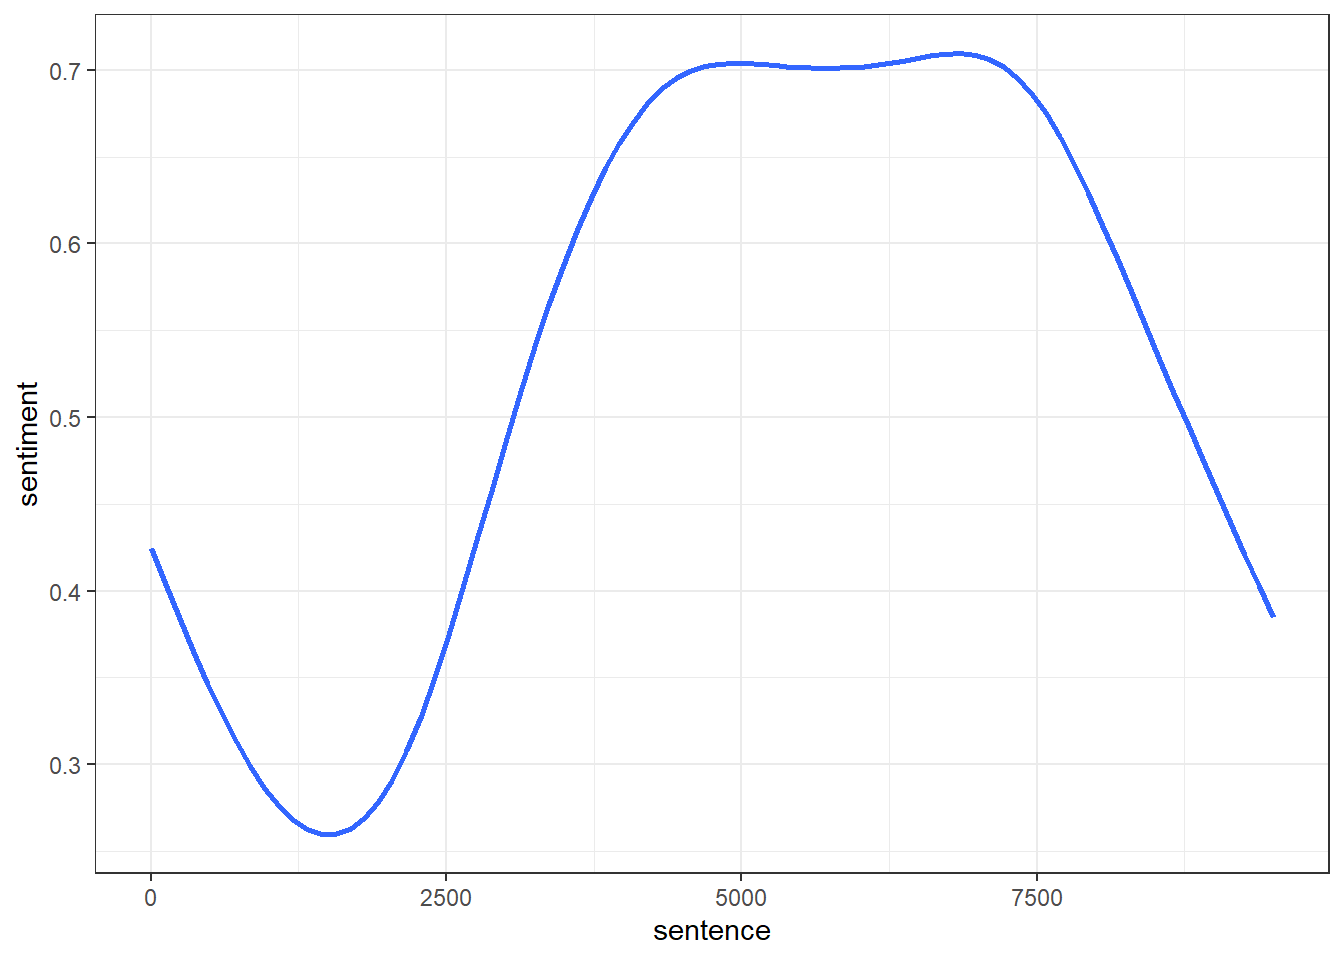
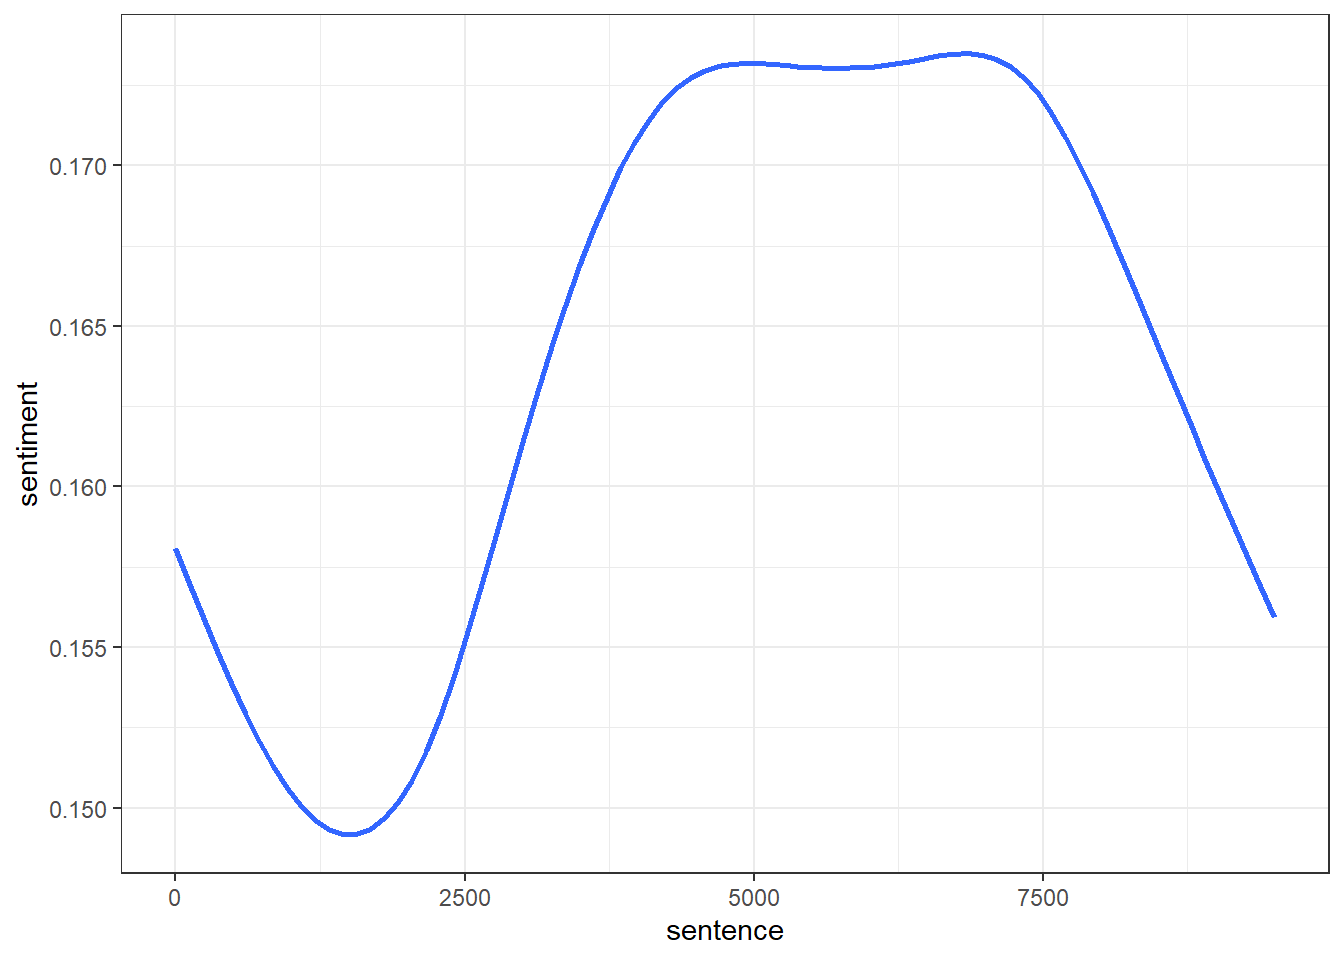
fixed fig width

diff --git a/content/post/2019-07-03-analisis-de-sentimientos-en-espanol-con-r.html b/content/post/2019-07-03-analisis-de-sentimientos-en-espanol-con-r.html
@@ -23,6 +23,7 @@ tags:
 <li>Oedipus (baja, luego sube, luego baja)</li>
 </ul>
 <p>La posibilidad de realizar este análisis en forma masiva dispara muchísimas preguntas sobre la estructura de las historias a lo largo del tiempo, países, culturas, etc.</p>
+<p>En <a href="http://hedonometer.org/books/v3/1777/">esta</a> aplicación desarrollada por el mismo Andy Reagan se pueden explorar los arcos emocionales de muchos libros.</p>
 <p>En fin, yendo a la práctica, para este tutorial voy a utilizar el <a href="https://es.wikipedia.org/wiki/Don_Quijote_de_la_Mancha">Don Quijote</a>, cuyos derechos de autor son de dominio público y es fácilmente accesible a través del paquete <a href="https://cran.r-project.org/web/packages/gutenbergr/vignettes/intro.html">gutenbergr</a>, una librería que permite descargar los libros del Proyecto Gutenberg. Para manipular los datos voy a utilizar la librería <a href="https://www.tidyverse.org/">tidyverse</a>.</p>
 <p>En primer lugar, descargo el libro y hago algo de limpieza del texto.</p>
 <pre class="r"><code>library(gutenbergr)
@@ -59,10 +60,11 @@ don_quijote_sentences &lt;- get_sentences(don_quijote)</code></pre>
 <p><img src="/post/2019-07-03-analisis-de-sentimientos-en-espanol-con-r_files/figure-html/unnamed-chunk-4-1.png" width="672" /></p>
 <p>Evidentemente, plotear el sentimiento de cada oración no nos deja ver con claridad cómo evoluciona el sentimiento a lo largo del libro. Para eso tenemos que aplicar algún tipo de técnica que nos permita suavizar los valores para que expresen una tendencia.</p>
 <p>El paquete <code>syuzhet</code> trae la función <code>simple_plot</code> que aplica simultáneamente tres métodos para suavizar: media móvil, loess y discrete cosine transformation.</p>
-<pre class="r"><code>simple_plot(don_quijote_sentiment)</code></pre>
+<pre class="r"><code>simple_plot(don_quijote_sentiment, )</code></pre>
 <p><img src="/post/2019-07-03-analisis-de-sentimientos-en-espanol-con-r_files/figure-html/unnamed-chunk-5-1.png" width="672" /></p>
 <p>Existen otros métodos para suavizar. Por ejemplo, el que trae por default la librería <code>ggplot</code> es una regresión GAM (Generalized Additive Model). Antes de plotear tengo que convertir el vector a data.frame, que es el tipo de dato que toma <code>ggplot</code>:</p>
-<pre class="r"><code>tibble(sentence = 1:length(don_quijote_sentiment), sentiment = don_quijote_sentiment) %&gt;% 
+<pre class="r"><code>tibble(sentence = 1:length(don_quijote_sentiment), 
+       sentiment = rescale(don_quijote_sentiment)) %&gt;% 
   ggplot(aes(sentence, sentiment)) +
   geom_smooth(se = FALSE) +
   theme_bw()</code></pre>

diff --git a/public/2019/07/03/análisis-de-sentimientos-en-español-con-r/index.html b/public/2019/07/03/análisis-de-sentimientos-en-español-con-r/index.html
@@ -83,6 +83,7 @@
 <li>Oedipus (baja, luego sube, luego baja)</li>
 </ul>
 <p>La posibilidad de realizar este análisis en forma masiva dispara muchísimas preguntas sobre la estructura de las historias a lo largo del tiempo, países, culturas, etc.</p>
+<p>En <a href="http://hedonometer.org/books/v3/1777/">esta</a> aplicación desarrollada por el mismo Andy Reagan se pueden explorar los arcos emocionales de muchos libros.</p>
 <p>En fin, yendo a la práctica, para este tutorial voy a utilizar el <a href="https://es.wikipedia.org/wiki/Don_Quijote_de_la_Mancha">Don Quijote</a>, cuyos derechos de autor son de dominio público y es fácilmente accesible a través del paquete <a href="https://cran.r-project.org/web/packages/gutenbergr/vignettes/intro.html">gutenbergr</a>, una librería que permite descargar los libros del Proyecto Gutenberg. Para manipular los datos voy a utilizar la librería <a href="https://www.tidyverse.org/">tidyverse</a>.</p>
 <p>En primer lugar, descargo el libro y hago algo de limpieza del texto.</p>
 <pre class="r"><code>library(gutenbergr)
@@ -119,10 +120,11 @@ don_quijote_sentences &lt;- get_sentences(don_quijote)</code></pre>
 <p><img src="/post/2019-07-03-analisis-de-sentimientos-en-espanol-con-r_files/figure-html/unnamed-chunk-4-1.png" width="672" /></p>
 <p>Evidentemente, plotear el sentimiento de cada oración no nos deja ver con claridad cómo evoluciona el sentimiento a lo largo del libro. Para eso tenemos que aplicar algún tipo de técnica que nos permita suavizar los valores para que expresen una tendencia.</p>
 <p>El paquete <code>syuzhet</code> trae la función <code>simple_plot</code> que aplica simultáneamente tres métodos para suavizar: media móvil, loess y discrete cosine transformation.</p>
-<pre class="r"><code>simple_plot(don_quijote_sentiment)</code></pre>
+<pre class="r"><code>simple_plot(don_quijote_sentiment, )</code></pre>
 <p><img src="/post/2019-07-03-analisis-de-sentimientos-en-espanol-con-r_files/figure-html/unnamed-chunk-5-1.png" width="672" /></p>
 <p>Existen otros métodos para suavizar. Por ejemplo, el que trae por default la librería <code>ggplot</code> es una regresión GAM (Generalized Additive Model). Antes de plotear tengo que convertir el vector a data.frame, que es el tipo de dato que toma <code>ggplot</code>:</p>
-<pre class="r"><code>tibble(sentence = 1:length(don_quijote_sentiment), sentiment = don_quijote_sentiment) %&gt;% 
+<pre class="r"><code>tibble(sentence = 1:length(don_quijote_sentiment), 
+       sentiment = rescale(don_quijote_sentiment)) %&gt;% 
   ggplot(aes(sentence, sentiment)) +
   geom_smooth(se = FALSE) +
   theme_bw()</code></pre>
